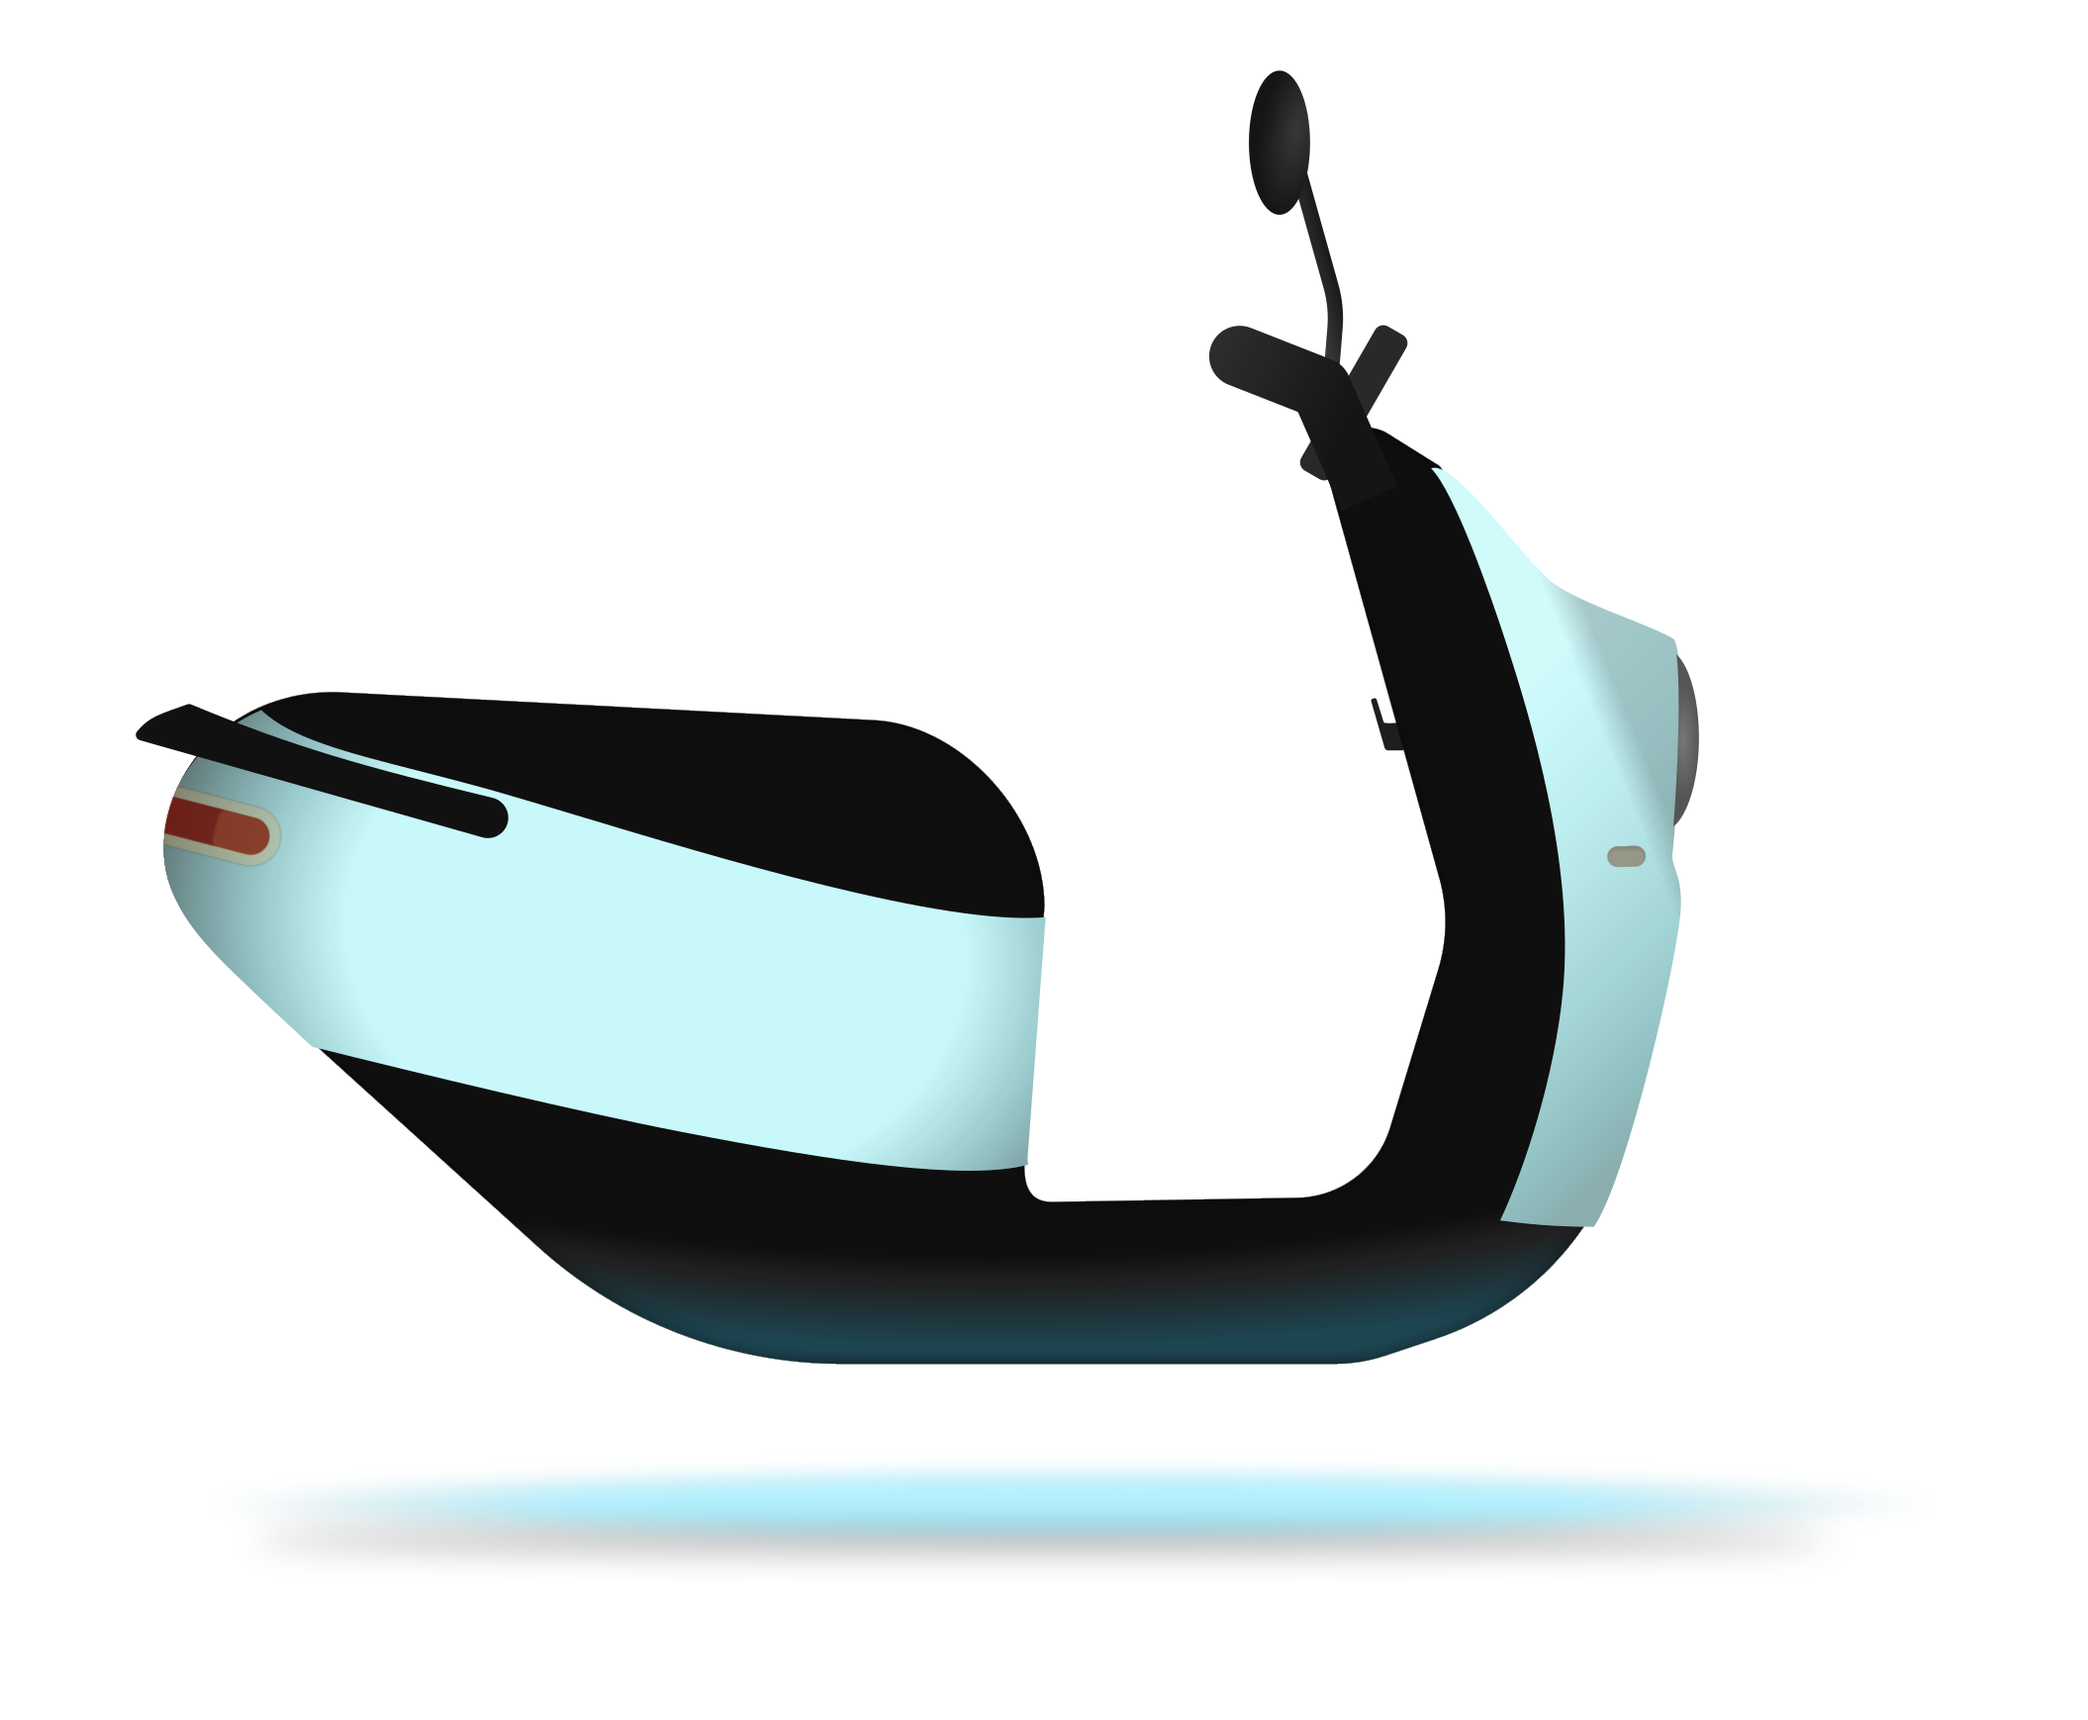
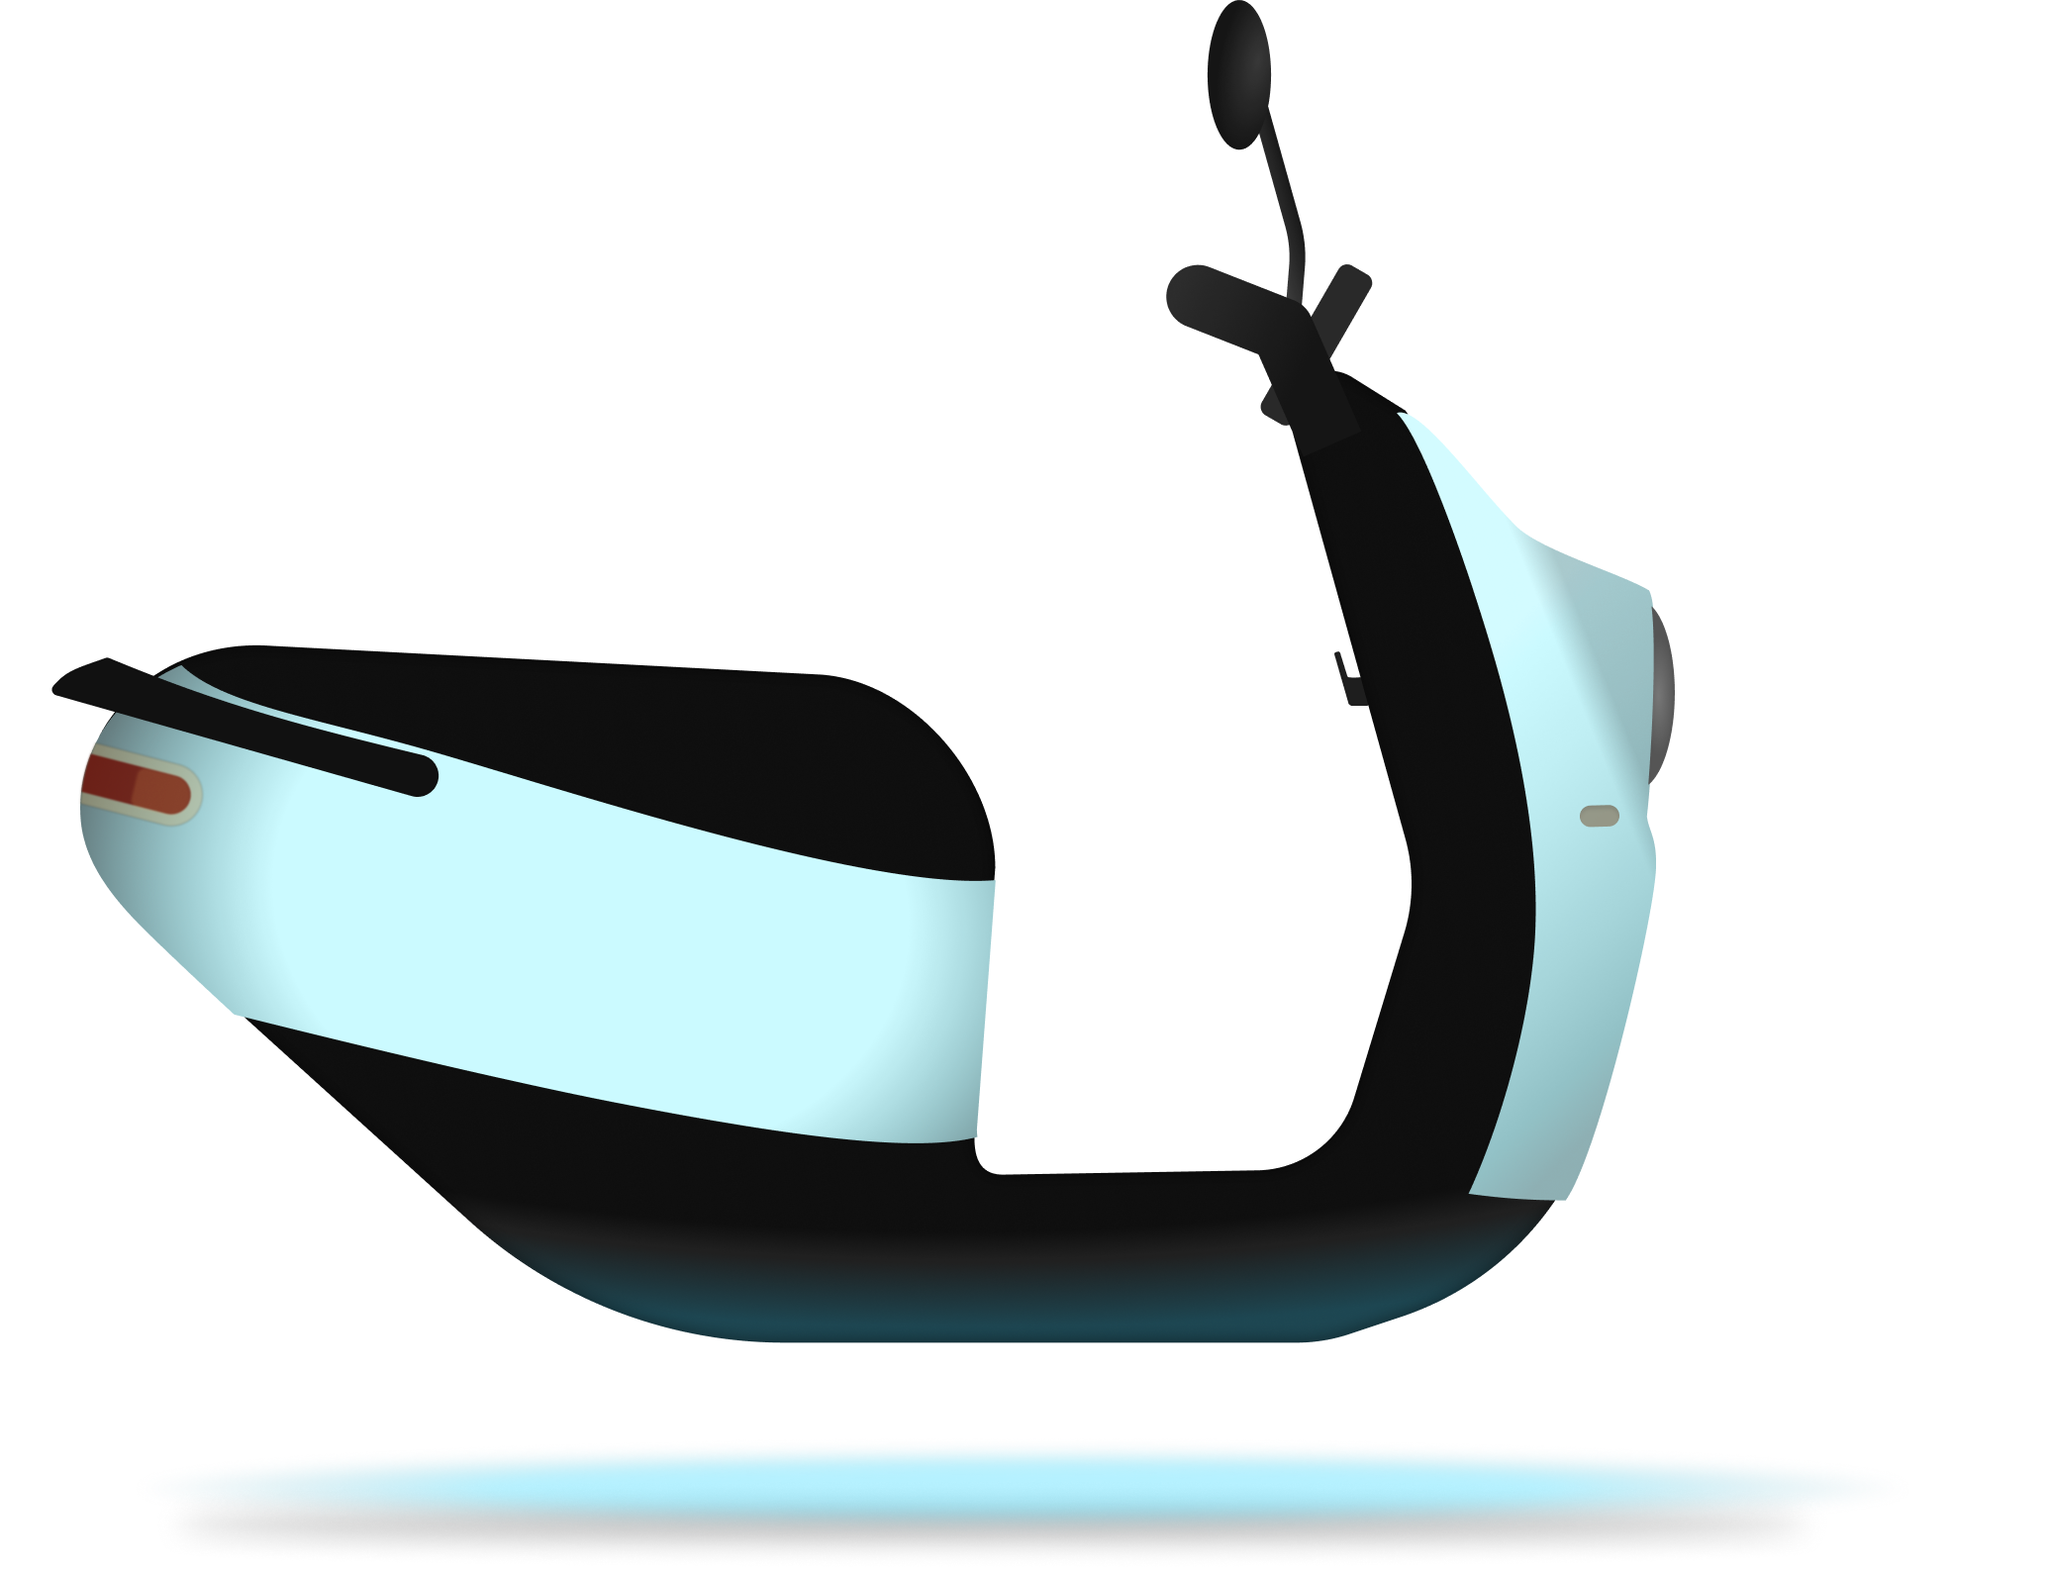
feat(app): refresh limited scooter artwork (librescoot-0g1g)

diff --git a/lib/ui/widgets/scooter_side_visual.dart b/lib/ui/widgets/scooter_side_visual.dart
@@ -4,11 +4,10 @@ import 'package:unustasis/ui/widgets/rendered_scooter_artwork.dart';
 
 /// Side-view scooter art with enough dark contrast for dark scooter colours.
 ///
-/// The art is 2110x1738, so a box [height] tall paints it a little wider than
-/// [height]. Decoding the source at full resolution costs 14 MB per card,
-/// against a 100 MB image cache the whole app shares, so the decode is pinned
-/// to the painted width instead.
-const double _sideArtAspectRatio = 2110 / 1738;
+/// Decoding the source at full resolution costs about 14 MB per card against a
+/// 100 MB image cache, so each view is decoded near its painted width.
+const double _renderedSideArtAspectRatio = 2110 / 1738;
+const double _prerenderedSideArtAspectRatio = 2072 / 1577;
 
 class ScooterSideVisual extends StatelessWidget {
   const ScooterSideVisual({
@@ -57,7 +56,7 @@ class ScooterSideVisual extends StatelessWidget {
             Image.asset(
               imagePath,
               height: height,
-              cacheWidth: (height * _sideArtAspectRatio * MediaQuery.devicePixelRatioOf(context)).ceil(),
+              cacheWidth: (height * _prerenderedSideArtAspectRatio * MediaQuery.devicePixelRatioOf(context)).ceil(),
             )
           else
             RenderedScooterArtwork(
@@ -65,7 +64,7 @@ class ScooterSideVisual extends StatelessWidget {
               color: renderedColor!,
               matte: renderedColorMatte,
               height: height,
-              cacheWidth: (height * _sideArtAspectRatio * MediaQuery.devicePixelRatioOf(context)).ceil(),
+              cacheWidth: (height * _renderedSideArtAspectRatio * MediaQuery.devicePixelRatioOf(context)).ceil(),
             ),
         ],
       ),

diff --git a/test/ui/limited_scooter_artwork_test.dart b/test/ui/limited_scooter_artwork_test.dart
@@ -1,0 +1,37 @@
+import 'dart:ui' as ui;
+
+import 'package:flutter/services.dart';
+import 'package:flutter_test/flutter_test.dart';
+
+Future<ui.Image> _loadImage(String path) async {
+  final data = await rootBundle.load(path);
+  final codec = await ui.instantiateImageCodec(data.buffer.asUint8List());
+  final frame = await codec.getNextFrame();
+  codec.dispose();
+  return frame.image;
+}
+
+void main() {
+  TestWidgetsFlutterBinding.ensureInitialized();
+
+  test('limited scooter exports retain their shared master scale', () async {
+    final fronts = <ui.Image>[];
+    final sides = <ui.Image>[];
+    addTearDown(() {
+      for (final image in [...fronts, ...sides]) {
+        image.dispose();
+      }
+    });
+
+    for (final index in [7, 8, 9]) {
+      fronts.add(await _loadImage('images/scooter/base_$index.webp'));
+      sides.add(await _loadImage('images/scooter/side_$index.webp'));
+    }
+
+    expect(fronts.map((image) => image.width), everyElement(866));
+    expect(sides.map((image) => image.width), everyElement(2072));
+    expect((fronts[0].width, fronts[0].height), (fronts[1].width, fronts[1].height));
+    expect((sides[0].width, sides[0].height), (sides[1].width, sides[1].height));
+    expect((sides[2].height - sides[0].height).abs(), lessThanOrEqualTo(10));
+  });
+}

diff --git a/tool/build_scooter_artwork.py b/tool/build_scooter_artwork.py
@@ -22,7 +22,6 @@ SIZES = {"front": (866, 1800), "side": (2110, 1738)}
 FRONT_SOURCE_WIDTH = 1135
 FRONT_TOP = 86
 SIDE_SOURCE_WIDTH = 1095
-SIDE_HOVER_TOP = 889
 
 ET.register_namespace("", SVG_NS)
 ET.register_namespace("xlink", XLINK_NS)
@@ -50,7 +49,7 @@ def ground_shadow(root: ET.Element) -> ET.Element:
     )
 
 
-def wrap_source(source: Path, view: str, *, hover: bool = False) -> ET.Element:
+def wrap_source(source: Path, view: str) -> ET.Element:
     source_root = ET.parse(source).getroot()
     remove_artboard(source_root)
     source_defs = copy.deepcopy(definitions(source_root))
@@ -59,9 +58,9 @@ def wrap_source(source: Path, view: str, *, hover: bool = False) -> ET.Element:
         children = [
             copy.deepcopy(child)
             for index, child in enumerate(source_root)
-            if local_name(child) != "defs" and (hover or index < 42)
+            if local_name(child) != "defs" and index < 42
         ]
-        translate_y = -SIDE_HOVER_TOP * (SIZES[view][0] / SIDE_SOURCE_WIDTH) if hover else 0
+        translate_y = 0
         scale = SIZES[view][0] / SIDE_SOURCE_WIDTH
     else:
         children = [copy.deepcopy(child) for child in source_root if local_name(child) != "defs"]
@@ -449,14 +448,28 @@ def build_layers(source_file: Path, output: Path, view: str) -> dict[str, object
     return manifest
 
 
-def build_hover(source: Path, output: Path) -> None:
-    front = wrap_source(source / "mode=hover.svg", "front", hover=True)
-    replace_placeholder(front, "#C8F8FA")
-    render(front, output / "base_9.webp", webp=True)
-
-    side = wrap_source(source / "side_master.svg", "side", hover=True)
-    replace_placeholder(side, "#C8F8FA")
-    render(side, output / "side_9.webp", webp=True)
+def build_prerendered(source: Path, output: Path) -> None:
+    for index in (7, 8, 9):
+        for view, output_prefix in (("front", "base"), ("side", "side")):
+            source_file = source / f"{view}_{index}.png"
+            with Image.open(source_file) as image:
+                expected_width = 866 if view == "front" else 2072
+                if image.width != expected_width:
+                    raise ValueError(
+                        f"{source_file.name} is {image.width}px wide, expected {expected_width}px"
+                    )
+            subprocess.run(
+                [
+                    "cwebp",
+                    "-lossless",
+                    "-exact",
+                    "-quiet",
+                    source_file,
+                    "-o",
+                    output / f"{output_prefix}_{index}.webp",
+                ],
+                check=True,
+            )
 
 
 def main() -> None:
@@ -486,7 +499,7 @@ def main() -> None:
     (args.output / "custom_artwork_layers.json").write_text(
         json.dumps(manifest, indent=2) + "\n", encoding="utf-8"
     )
-    build_hover(args.source, args.output)
+    build_prerendered(args.source, args.output)
 
 
 if __name__ == "__main__":
